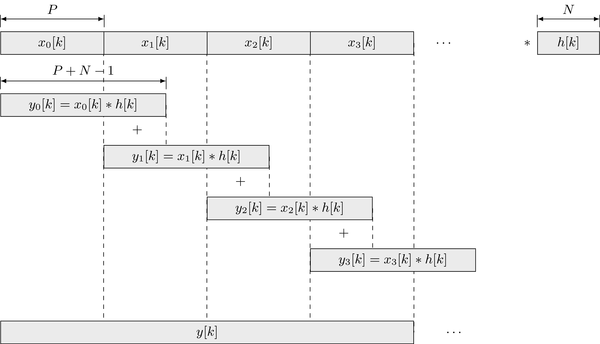
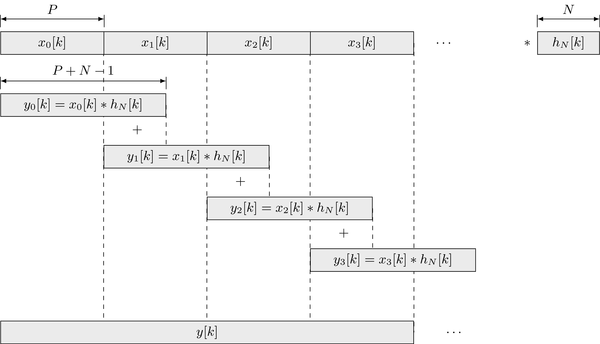
Fixed indices in block diagram of overlap-add algorithm

diff --git a/images/non_recursive_filters.tex b/images/non_recursive_filters.tex
@@ -20,14 +20,14 @@
     \node[block, right of=x2, minimum height=1em, minimum width=25mm] (x3){$x_3[k]$};
     \node[right of=x3, xshift=-5mm] {$\dots$};
     
-    \node[block, right of=x0, minimum height=1em, minimum width=15mm, xshift=10cm] (h){$h[k]$};
+    \node[block, right of=x0, minimum height=1em, minimum width=15mm, xshift=10cm] (h){$h_N[k]$};
     \node[left of=h, xshift=15mm] {$*$};
     
     % convolved segments
-    \node[block, minimum height=1em, minimum width=40mm, anchor=west](y0) at ($(x0.west) - (0, 1.5)$) {$y_0[k] = x_0[k] * h[k]$};
-    \node[block, minimum height=1em, minimum width=40mm, anchor=west](y1) at ($(x1.west) - (0, 2.75)$) {$y_1[k] = x_1[k] * h[k]$};
-    \node[block, minimum height=1em, minimum width=40mm, anchor=west](y2) at ($(x2.west) - (0, 4)$) {$y_2[k] = x_2[k] * h[k]$};
-    \node[block, minimum height=1em, minimum width=40mm, anchor=west](y3) at ($(x3.west) - (0, 5.25)$) {$y_3[k] = x_3[k] * h[k]$};
+    \node[block, minimum height=1em, minimum width=40mm, anchor=west](y0) at ($(x0.west) - (0, 1.5)$) {$y_0[k] = x_0[k] * h_N[k]$};
+    \node[block, minimum height=1em, minimum width=40mm, anchor=west](y1) at ($(x1.west) - (0, 2.75)$) {$y_1[k] = x_1[k] * h_N[k]$};
+    \node[block, minimum height=1em, minimum width=40mm, anchor=west](y2) at ($(x2.west) - (0, 4)$) {$y_2[k] = x_2[k] * h_N[k]$};
+    \node[block, minimum height=1em, minimum width=40mm, anchor=west](y3) at ($(x3.west) - (0, 5.25)$) {$y_3[k] = x_3[k] * h_N[k]$};
     % output
     \node[block, minimum height=1em, minimum width=100mm, anchor=west](y) at ($(x0.west) - (0, 7)$) {$y[k]$};
     \node[right of=y, xshift=35mm] {$\dots$};
